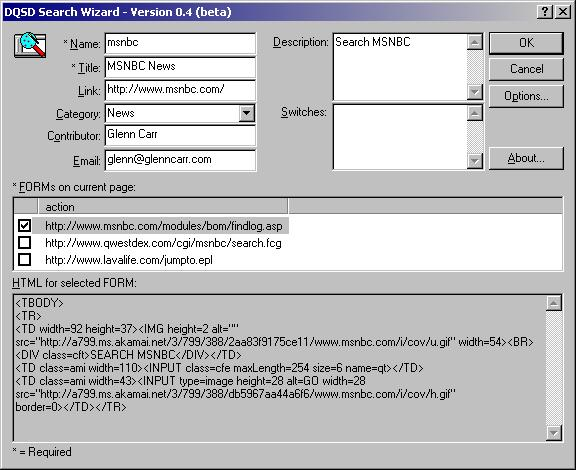
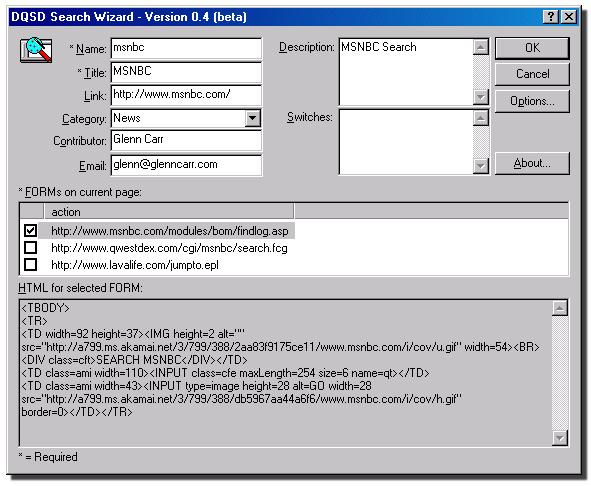
*** empty log message ***

diff --git a/dqsdweb/searchwizard.htm b/dqsdweb/searchwizard.htm
@@ -5,6 +5,7 @@
 <style>
 li { padding-bottom: 1em }
 img { margin: 5px }
+.code { font-size: 80%; color: maroon; background: #eeeeee; border: black 1px solid; padding: 3px 3px }
 </style>
 </head>
 <body>
@@ -30,20 +31,29 @@ I call it <b>Dave's Quick Search Deskbar Search Wizard</b>.
 
 <hr size="1">
 
-<h3>What does it do?</h3>
+<h3>What does it do and why would I want to use it?</h3>
 
 <p>
-In a nutshell, it creates a DQSD search from the page currently displayed in your browser.
+In a nutshell, it generates a DQSD search from the page currently displayed in your browser.
 </p>
 
 <p>
-One of the first things you typically do when creating a new search is to view the source for the page containing the FORM INPUT elements.&nbsp;&nbsp;It's tedious.&nbsp;&nbsp;It's hard to find the right FORM when there are multiple FORMs in the page.&nbsp;&nbsp;It's error-prone because I have to convert the HTML to well-formed XML (and I always forget to close the INPUT elements with "/>").
+If you have no desire to ever write a search for DQSD, then don't read any further.&nbsp;&nbsp;If you do write searches from time to time, or at least want to, then you may find the DQSD Search Wizard useful.&nbsp;&nbsp;At least I do.&nbsp;&nbsp;
 </p>
 
-<h3>How do I use it?</h3>
+<p>
+One of the first things I typically do when creating a new search is to view the source for the page containing the FORM INPUT elements.&nbsp;&nbsp;It's tedious.&nbsp;&nbsp;It's hard to find the right FORM when there are multiple FORMs in the page.&nbsp;&nbsp;It's error-prone because I have to convert the HTML to well-formed XML (and I always forget to close the INPUT elements with "/>").
+</p>
+
+<p>
+There had to be an easier way.
+</p>
+
+<h3>OK, so how do I use it?</h3>
 
 <p>
 <ol>
+<li><a href="http://sourceforge.net/project/showfiles.php?group_id=42081&release_id=104770">Install</a> the Search Wizard.</li>
 <li>Go to the web page with the search.</li>
 <li>Click in the field you want to be receive the search string.</li>
 <li>Start up the wizard by clicking on its Internet Explorer toolbar button:<br/>
@@ -52,21 +62,183 @@ One of the first things you typically do when creating a new search is to view t
 </center>
 </li>
 <li>
-You should see a dialog that looks something like the following.&nbsp;&nbsp;Enter a name and a title.&nbsp;&nbsp;(The name is the string that will invoke the search and will be used name the file, so keep it short and simple.)<br/>
+You should see a dialog that looks something like the following.&nbsp;&nbsp;Some of the fields will be automatically filled in.&nbsp;&nbsp;Enter a name and a title for the new search.&nbsp;&nbsp;The name is the string that will invoke the search and will be used name the file, so keep it short and simple.<br/>
 <center><img src="dqsdsearchwiz.jpg" align="top"></center>
 </li>
 <li>Hit OK and you'll be prompted to save the search file to your DQSD 'searches' directory.</li>
+<li>After saving the file, it will come up in Notepad by default.&nbsp;&nbsp;(Click 'Options...' to change the editor to something other than Notepad.)
 </ol>
 </p>
 
 <h3>Example</h3>
 
 <p>
-In the screenshot above, I went to <a href="http://www.msnbc.com">http://www.msnbc.com</a>, clicked in the search field to make it 'active'...<br/>
+In the screen shot above, I went to <a href="http://www.msnbc.com">http://www.msnbc.com</a>, clicked in the search field...<br/>
 <center><img src="msnbc.jpg"></center>
-Then I invoked the wizard, entered 'msnbc' for the name, and 'MSNBC News' for the title (the title is what appears in the menu and help).&nbsp;&nbsp;All the FORM elements in the page are listed, with the one checked that contains the 'active' element.
+Then I clicked the 'DQSD Search Wizard' button.&nbsp;&nbsp;All the FORM elements in the page are listed, with the one checked that contains the 'active' element.&nbsp;&nbsp;I entered 'msnbc' for the name, enter 'msnbc' for the search name and 'MSNBC News' for the title (the title is what appears in the menu and help).&nbsp;&nbsp;Finally, I hit OK and I was prompted to save 'msnbc.xml' to the 'searches' subdirectory in the DQSD installation.
 </p>
 
+<p>
+The resulting XML file search file will look something like <a href="#searchxml">the following</a>.&nbsp;&nbsp;And, in spite of the comment at the top of the file, this search works as is!&nbsp;&nbsp;Woo hoo!&nbsp;&nbsp;(Well, I find it fairly exciting.)&nbsp;&nbsp;Granted, complicated searches won't 'just work', but the wizard will at least do a bunch of the boring work.
+</p>
+
+<a name="searchxml" />
+<div class="code">
+<xmp>
+<search function="msnbc">
+  <COMMENT>
+
+    This search file was initially created by Dave's Quick Search Deskbar
+    Search Wizard version 0.4 (beta) on 08/12/02 at 23:09:04
+
+    Even though this XML search will probably load and is a healthy start
+    toward a completed search, please be aware that this search will probably
+    not work as is and will require some human inspection and modification.
+
+  </COMMENT>
+  <name>MSNBC</name>
+  <category>News</category>
+  <contributor>Glenn Carr</contributor>
+  <link>http://www.msnbc.com/</link>
+  <email>glenn@glenncarr.com</email>
+  <description>
+  MSNBC Search
+  </description>
+  <form name="msnbcf"
+        method="post"
+        action="http://www.msnbc.com/modules/bom/findlog.asp">
+
+    <COMMENT> The following field was active (i.e. had focus) when the search was generated. </COMMENT>
+
+    <input type="hidden" name="qt" value="" />
+  </form>
+  <script><![CDATA[
+    function msnbc(q)
+    {
+      if( nullArgs("msnbc", q) )
+        return;
+
+      if( q == "" )
+      {
+        openSearchWindow("http://www.msnbc.com/");
+        return;
+      }
+
+      // FORM variables for msnbcf
+
+      // The wizard assigned the search string to this form field value because
+      // this field was the active element when the search file was generated.
+      // Change this to args.q if the search string is parsed with parseArgs.
+      document.msnbcf.qt.value = q;
+
+      submitForm(msnbcf);
+    }
+  ]]></script>
+</search>
+</xmp>
+</div>
+
+<h3>Switches</h3>
+
+<p>
+The 'parseArgs' utility method has become the convention for parsing switches for searches.&nbsp;&nbsp;If you enter some switches in the 'Switches:' field of the search wizard...<br/>
+<center><img src="switches.jpg"></center><br/>
+...the generated search will now include basic code for parsing the switches:
+</p>
+
+<div class="code">
+<xmp>
+<search function="msnbc">
+  <COMMENT>
+
+    This search file was initially created by Dave's Quick Search Deskbar
+    Search Wizard version 0.4 (beta) on 08/12/02 at 23:38:36
+
+    Even though this XML search will probably load and is a healthy start
+    toward a completed search, please be aware that this search will probably
+    not work as is and will require some human inspection and modification.
+
+  </COMMENT>
+  <name>MSNBC</name>
+  <category>News</category>
+  <contributor>Glenn Carr</contributor>
+  <link>http://www.msnbc.com/</link>
+  <email>glenn@glenncarr.com</email>
+  <description>
+  MSNBC Search
+  </description>
+  <form name="msnbcf"
+        method="post"
+        action="http://www.msnbc.com/modules/bom/findlog.asp">
+
+    <COMMENT> The following field was active (i.e. had focus) when the search was generated. </COMMENT>
+
+    <input type="hidden" name="qt" value="" />
+  </form>
+  <script><![CDATA[
+    function msnbc(q)
+    {
+      if( nullArgs("msnbc", q) )
+        return;
+
+      if( q == "" )
+      {
+        openSearchWindow("http://www.msnbc.com/");
+        return;
+      }
+</xmp><xmp style="color: red">
+      // Parse switches with parseArgs:
+
+      // parseArgs usage:
+      // Arguments:
+      //    q                - string from the search function
+      //    expectedSwitches - list or array of the expected switch values
+      //    expandSwitches   - optional parameter [default = true] used to determine 
+      //                       if the switch shortcuts should be expanded (i.e. /f becomes /foo)
+      // Returns an object with these properties:
+      //    q        - the input string with the switches removed
+      //    switches - array of objects with these two properties:
+      //                  name:   expanded name of the matched switch (i.e. foo as in /foo:bar)
+      //                  value:  value of switch (i.e. bar as in /foo:bar)
+      //    switch_val - associative array with the switch name as the key with the switch value 
+      //                 as the value. (i.e. switch_val["foo"] = "bar" as in /foo:bar)
+
+      //var args = parseArgs(q, "news, sports, business");
+      //if ( args.switches.length > 0 )
+      //{
+      //  switch( args.switches[0].name )
+      //  {
+      //    case "news":
+      //         break;
+      //    case "sports":
+      //         break;
+      //    case "business":
+      //         break;
+      //    default:
+      //         break;
+      //  } //end-switch
+      //}
+</xmp><xmp>
+      // FORM variables for msnbcf
+
+      // The wizard assigned the search string to this form field value because
+      // this field was the active element when the search file was generated.
+      // Change this to args.q if the search string is parsed with parseArgs.
+      document.msnbcf.qt.value = q;
+
+      submitForm(msnbcf);
+    }
+  ]]></script>
+</search>
+</xmp>
+</div>
+
+<p>
+Anyway, that's the gist of it.&nbsp;&nbsp;It needs a lot of testing, and there is plenty of room for improvement.&nbsp;&nbsp;It's also open source, so feel free to hack away.
+<p>
+
+Glenn Carr<br/>
+August 13, 2002
 
 </body>
 </html>
